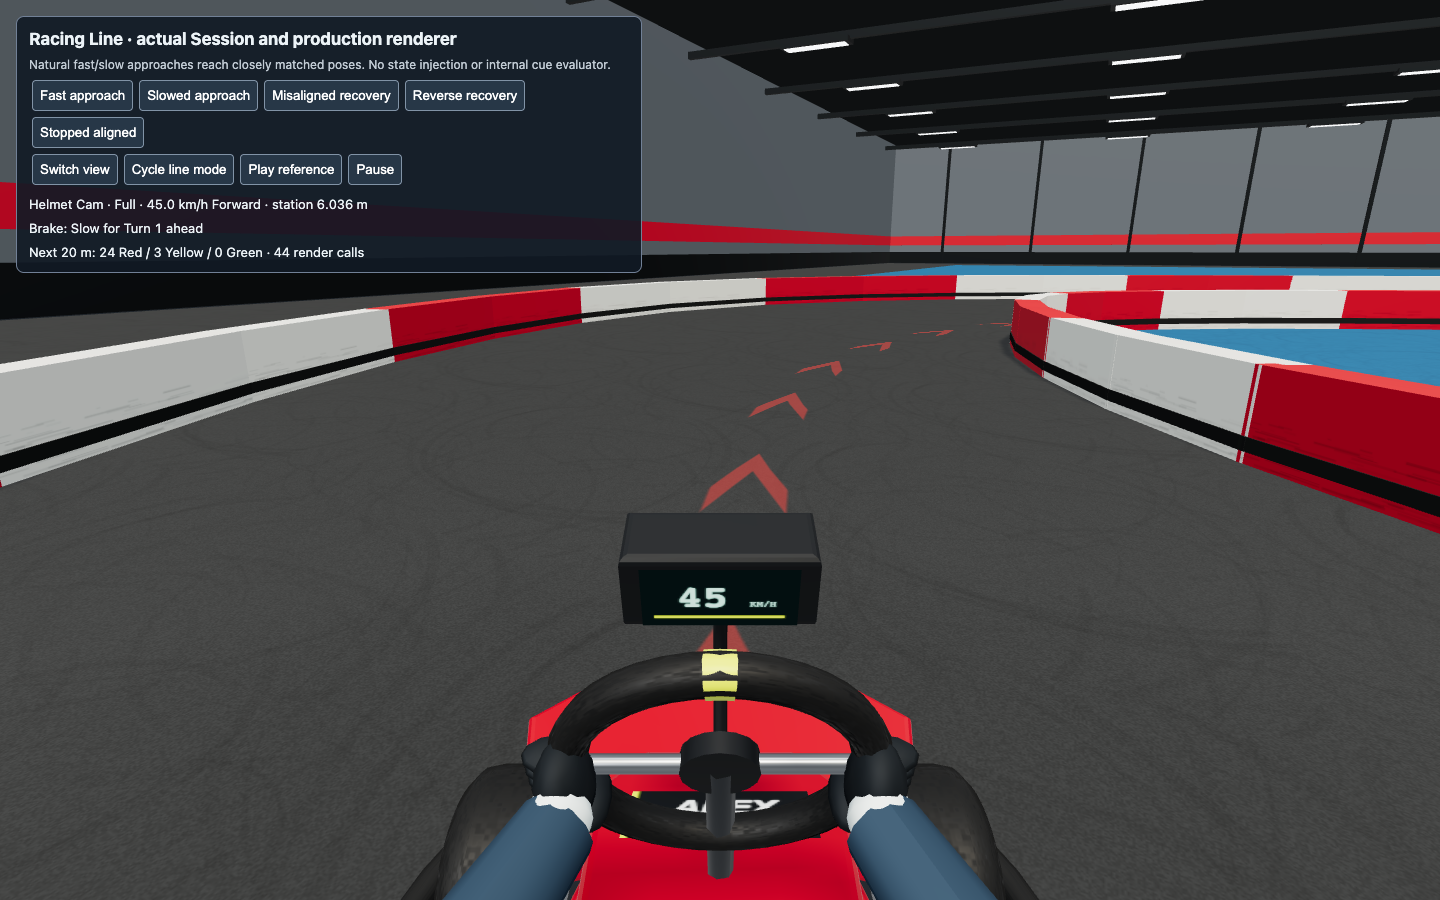
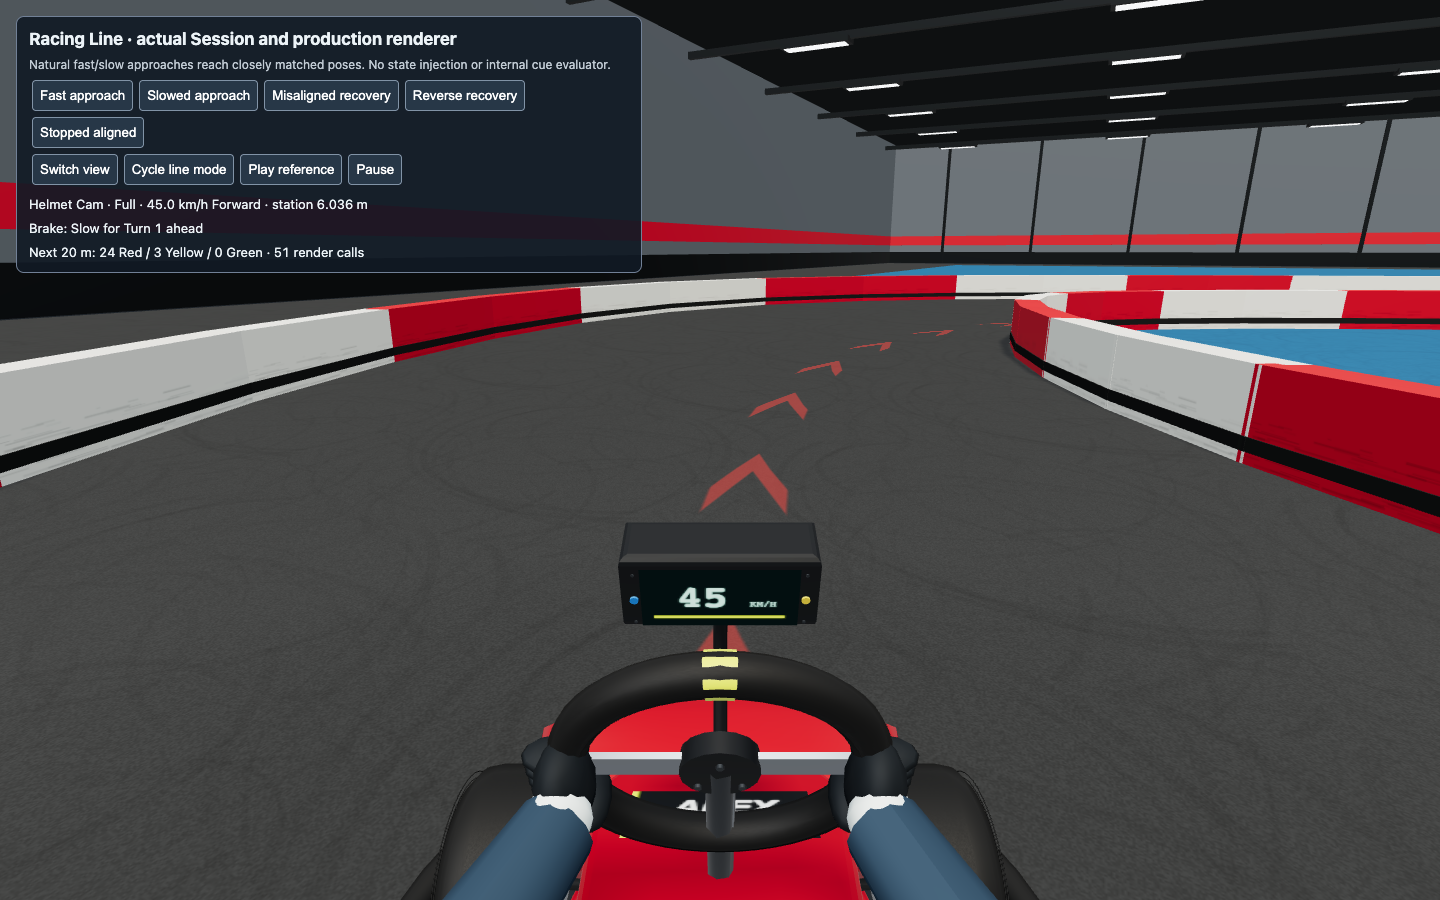
test: refresh adopted reference browser evidence after integration

diff --git a/docs/iteration-4-adoption.md b/docs/iteration-4-adoption.md
@@ -24,7 +24,7 @@ The existing physical-entry/gate fingerprint changes from `drills-af9acaf0`; it 
 
 ## Cost and browser inspection
 
-On Apple M5 Pro, macOS arm64, Node 26.4.0, the fresh CLI evidence process measured **70.618 ms** for cold Session construction, **4.571 ms** mean for twenty cached Session constructions, and **0.000056 ms** per cached Reference Lap lookup (1,000 calls). These are single-process CPU measurements, not browser frame-rate claims. No search runs during driving. The build retains its existing large-bundle warning (1,063.90 kB uncompressed / 264.57 kB gzip for the main JS chunk).
+On Apple M5 Pro, macOS arm64, Node 26.4.0, the fresh CLI evidence process measured **70.618 ms** for cold Session construction, **4.571 ms** mean for twenty cached Session constructions, and **0.000056 ms** per cached Reference Lap lookup (1,000 calls). These are single-process CPU measurements, not browser frame-rate claims. No search runs during driving. The build retains its existing large-bundle warning (1,066.06 kB uncompressed / 265.24 kB gzip for the main JS chunk).
 
 [Browser evidence](iteration-4-adoption/browser-evidence.json) records headless Chrome 155.0.8059.85, both production-renderer cameras, no page errors, and the three display modes. At matched T1 approach positions the 45 km/h case has 24 red segments and requests Brake; the 31.94 km/h case has zero red segments and requests Coast. The line coordinates are identical. The [Helmet fast](iteration-4-adoption/helmet-fast.png), [Helmet slow](iteration-4-adoption/helmet-slow.png), [Chase fast](iteration-4-adoption/chase-fast.png), and [Chase slow](iteration-4-adoption/chase-slow.png) captures were inspected for readable advance cues along the fixed path. Browser reference-search replay also improves the final Corner Complex over iteration 3 without contacts. Integrated real-time frame performance remains #43's separate acceptance measurement.
 
@@ -36,3 +36,5 @@ On Apple M5 Pro, macOS arm64, Node 26.4.0, the fresh CLI evidence process measur
 - Start Vite at port 5192, then run `node tests/browser/reference-adoption-check.mjs`. Set `APEX_BITE_PLAYWRIGHT_MODULE` to an installed Playwright module and `APEX_BITE_TEST_URL` to another local server if needed; no package dependency was added. Set `APEX_BITE_ADOPTION_EVIDENCE` to retain a separate capture.
 
 The initial public adoption assertion was red at 41.558333 s and green after installing the complete validated recipe. The recipe-integrity regression rejects a changed lookahead setting. Existing bounded offline regressions still reproduce the old default reference and preserve the live recipe byte for byte.
+
+Latest integration `c92a774` was merged before final validation. The 88-test suite and build passed again, and browser captures were refreshed with its Kart presentation.
